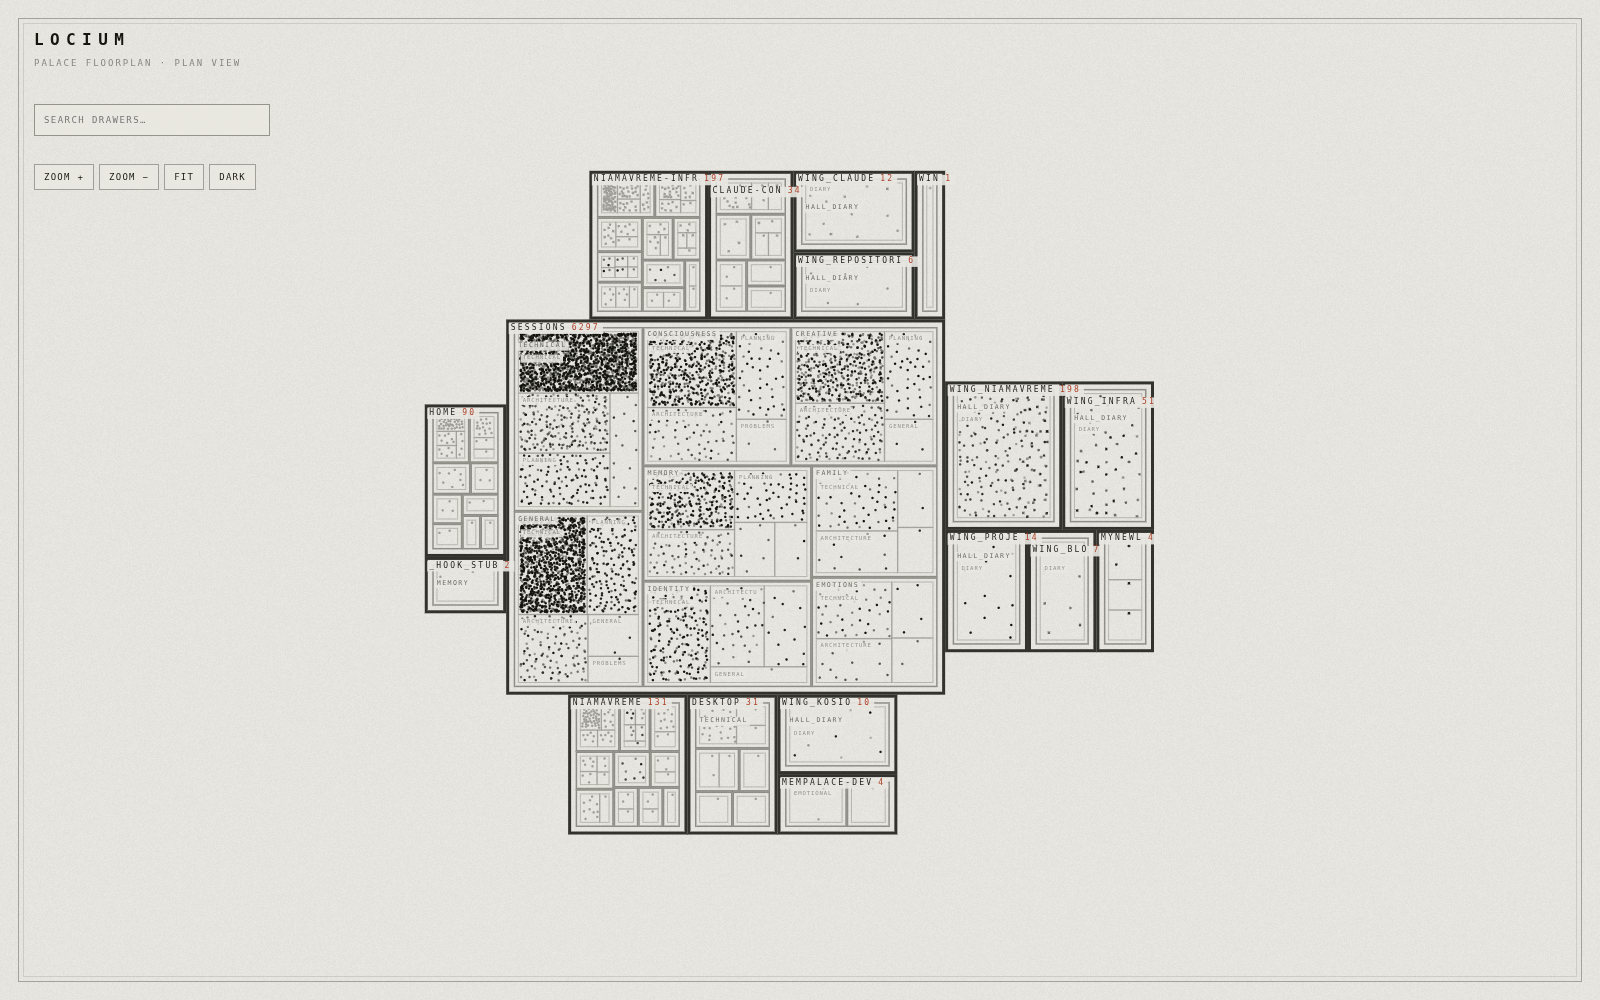
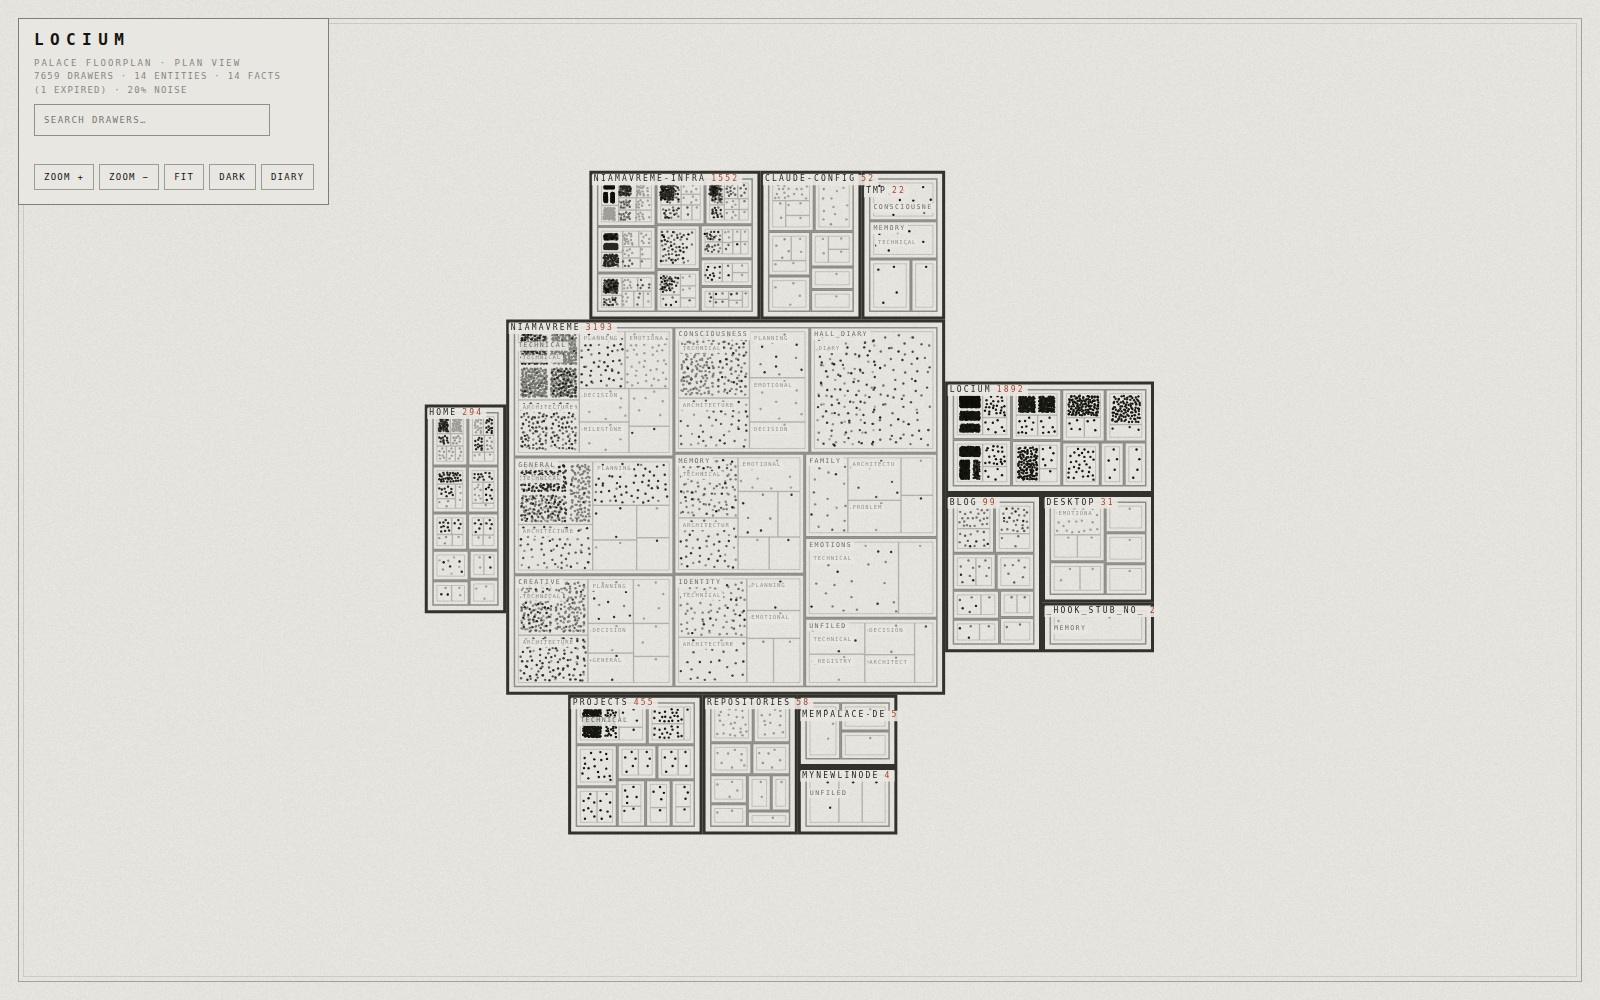
Reshoot the floorplan for per-project wings and correct the block-sizing note

Changed region(s): [[0.25, 0.155, 0.7188, 0.837], [0.0, 0.031, 0.125, 0.093], [0.1562, 0.155, 0.1875, 0.186]]

diff --git a/README.md b/README.md
@@ -68,12 +68,13 @@ hierarchy; Locium draws that hierarchy directly as a floorplan: wings and
 halls become blocks sharing a full edge with a connected core, rooms become
 chambers inside them, and each drawer is a dot scattered inside its chamber.
 
-Block size is `log(count + 1)`, not proportional to how full a room is — one
-wing can hold the vast majority of a real store, and sizing by count would
-make most chambers smaller than their own labels. Density of dots shows
-fullness instead. A dot's value carries recency (older drawers read fainter,
-recent ones read stronger), and it inverts with the theme so "recent" always
-reads as more present, not just differently coloured.
+Block size is `log(count + 1)`, not proportional to how full a room is — the
+wings of a real store span three orders of magnitude, from thousands of
+drawers down to a handful, and sizing by count would make most chambers
+smaller than their own labels. Density of dots shows fullness instead. A
+dot's value carries recency (older drawers read fainter, recent ones read
+stronger), and it inverts with the theme so "recent" always reads as more
+present, not just differently coloured.
 
 Position no longer encodes meaning — proximity on screen means "same room",
 not "similar content". Clicking a dot fetches that drawer's full text from
@@ -106,6 +107,11 @@ rectangle; wing/hall/chamber geometry itself is recomputed fresh on every
 build. New drawers are packed into the space that's left. Only `--refit`
 discards everything and repacks from scratch, and it will invalidate the map
 you have memorised.
+
+Re-filing on the palace side moves drawers too. If memories are reassigned to
+different wings, their chamber has changed, so they are placed afresh on the
+next build even without `--refit` — expect the floorplan to redraw when the
+palace is reorganised, not just when it grows.
 
 ## Read-only
 
